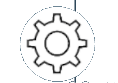
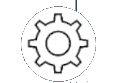
Update README

diff --git a/README.md b/README.md
@@ -58,7 +58,7 @@ When clicked 6 filter-type buttons will appear next to the **Airplane Button**
 
 This button enables/disables the weather on map. (Default = Disabled)
 
-* **Debug Button**: ![Debug Button](/examples/pictures/debug-button.png) 
+* **Debug Button**: ![Debug Button](/examples/pictures/weather-button.png) 
 
 This button just displays debug info to the user on the top left of the screen. **Debug** includes FPS, Speed of Map Rendering, Speed of Weather Rendering, and more features. 
 
